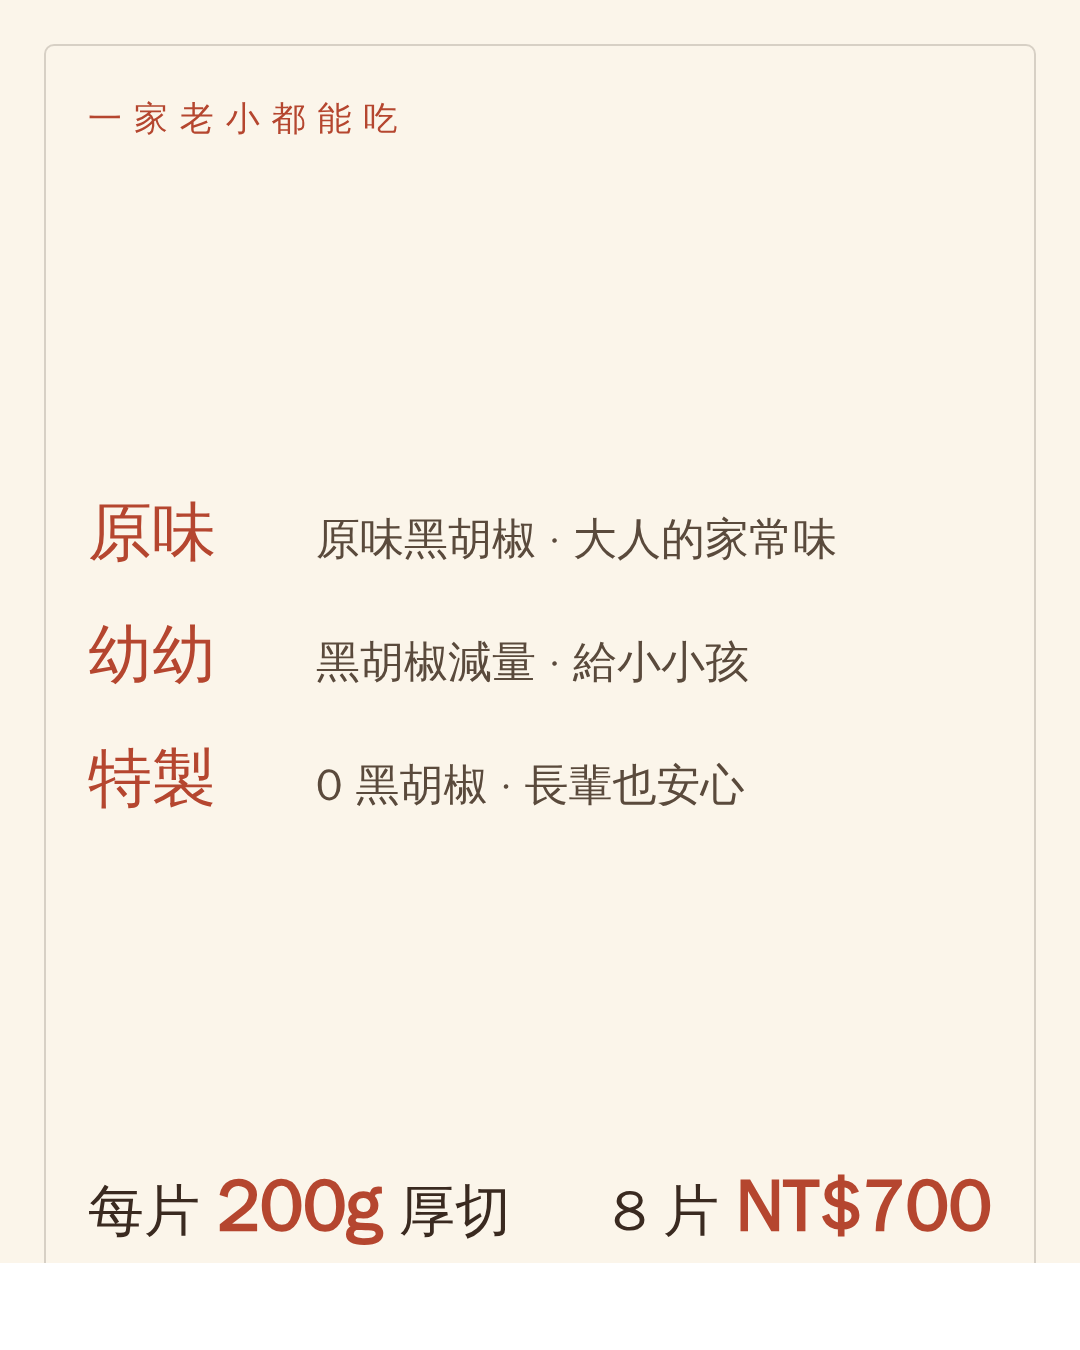
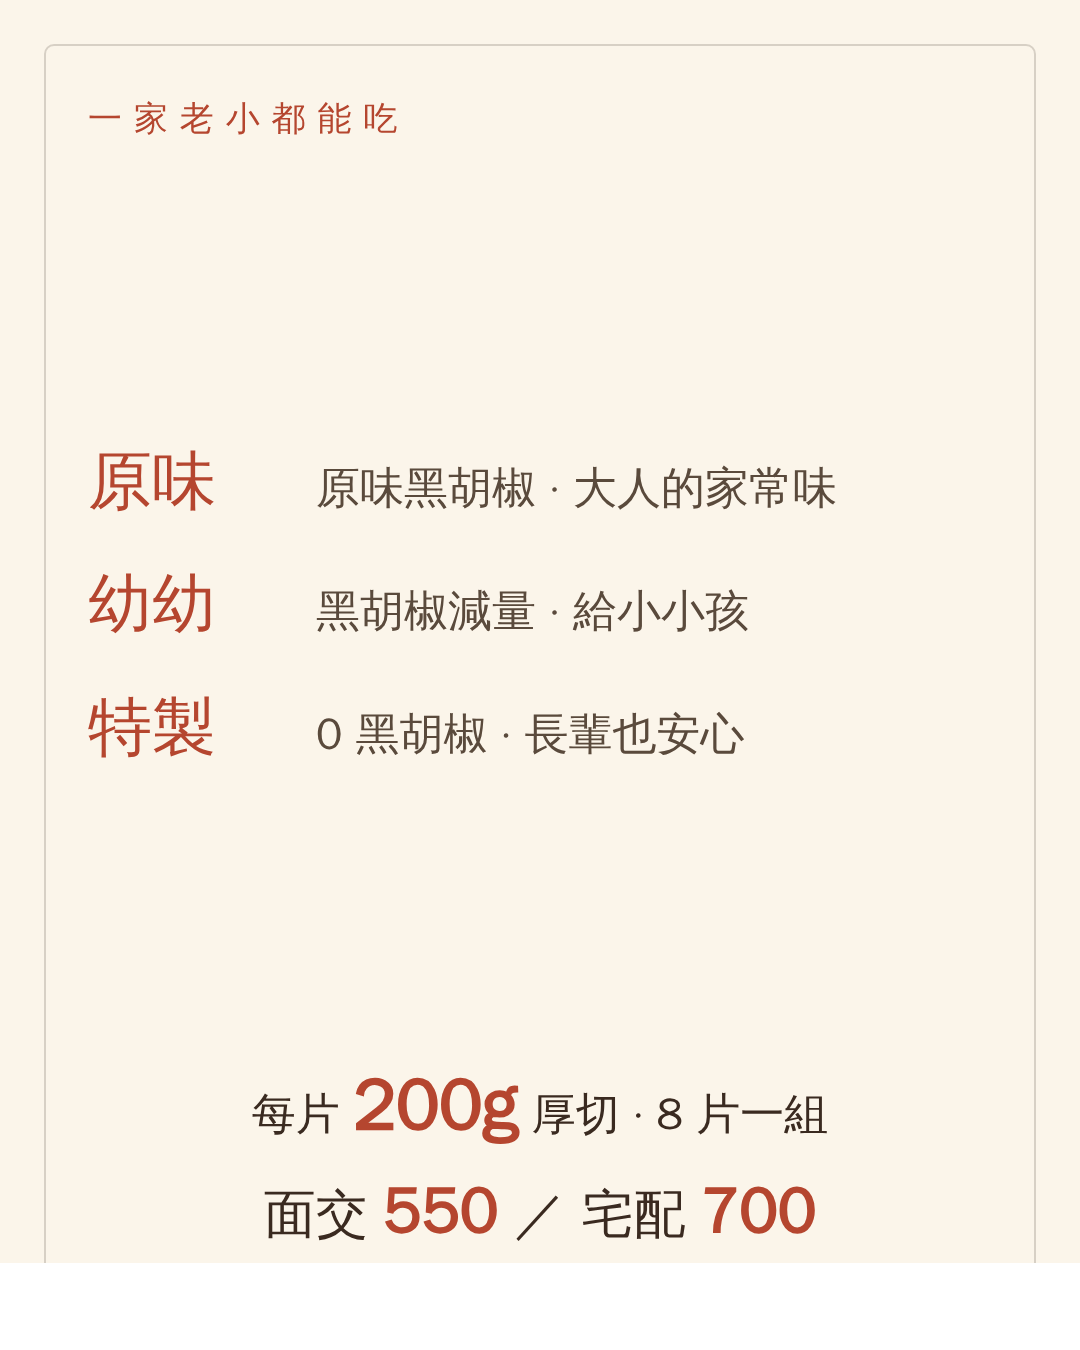
改雙價：天母面交 NT$550 / 冷凍宅配 NT$700（含運費）
- 落地頁、product-info、團購文、圖卡 card4 同步

Claude-Session: https://claude.ai/code/session_015bY9rvj7fDQzXH49adzH3s

diff --git a/docs/index.html b/docs/index.html
@@ -1142,16 +1142,21 @@ html,body,h1,h2,h3,h4,h5,h6,p,div,span,a,strong,em,b,li,button,input,label,.htag
 .buy-card li{color:var(--ink-mid);font-size:14px;line-height:1.95;}
 .buy-card li b{color:var(--amber);}
 .buy-note{max-width:440px;margin:16px auto 0;text-align:center;font-size:12px;color:var(--ink-pale);letter-spacing:.5px;}
-.buy-price{text-align:center;margin:-14px 0 30px;color:var(--ink-mid);font-size:16px;}
-.buy-price b{color:var(--amber);font-size:32px;font-weight:700;vertical-align:-3px;margin:0 4px;}
-.buy-price span{display:block;font-size:12.5px;color:var(--ink-pale);margin-top:5px;letter-spacing:.5px;}
+.buy-price{display:flex;justify-content:center;gap:14px;margin:-14px 0 10px;flex-wrap:wrap;}
+.buy-price .pp{background:var(--paper-w);border:1px solid rgba(179,64,42,.18);border-radius:14px;padding:14px 22px;text-align:center;min-width:148px;}
+.buy-price .pp span{display:block;font-size:13px;color:var(--seal);font-weight:700;letter-spacing:1px;margin-bottom:4px;}
+.buy-price .pp b{font-size:30px;color:var(--amber);font-weight:700;}
+.buy-price .pp em{display:block;font-size:11px;color:var(--ink-pale);font-style:normal;margin-top:3px;}
+.buy-price-note{text-align:center;font-size:12.5px;color:var(--ink-soft);margin:0 0 28px;letter-spacing:.5px;}
 </style>
 <section id="buy" class="buy-section r">
   <div class="buy-eyebrow">購買資訊</div>
   <h2 class="buy-title">想帶回家，這樣買</h2>
-  <div class="buy-price">三款同價 · 8 片一組 <b>NT$700</b>
-    <span>已含 7-11／全家 冷凍店到店運費</span>
+  <div class="buy-price">
+    <div class="pp"><span>天母面交</span><b>NT$550</b></div>
+    <div class="pp"><span>冷凍宅配</span><b>NT$700</b><em>含超商店到店運費</em></div>
   </div>
+  <div class="buy-price-note">三款同價・每片 200g 厚切・8 片一組</div>
 
   <div class="buy-steps">
     <div class="buy-step"><span class="buy-num">1</span><div class="st"><b>加入 LINE 官方帳號</b><br>點下方按鈕，加入就能私訊</div></div>
@@ -1164,8 +1169,8 @@ html,body,h1,h2,h3,h4,h5,h6,p,div,span,a,strong,em,b,li,button,input,label,.htag
     <div class="buy-card">
       <div class="buy-card-h">🚚 配送方式</div>
       <ul>
-        <li>天母・石牌區：可約時間<b>面交</b>（不預收款、面交再付款）</li>
-        <li>全台：<b>低溫 -18℃ 冷凍宅配</b>（7-11／全家冷凍店到店），<b>運費已含在售價內</b></li>
+        <li>天母・石牌區：可約時間<b>面交</b>，<b>8 片 NT$550</b>（不預收款、面交再付款）</li>
+        <li>全台：<b>低溫 -18℃ 冷凍宅配</b>（7-11／全家冷凍店到店），<b>8 片 NT$700</b>（運費已含）</li>
       </ul>
     </div>
     <div class="buy-card">
@@ -1191,7 +1196,7 @@ html,body,h1,h2,h3,h4,h5,h6,p,div,span,a,strong,em,b,li,button,input,label,.htag
     </div>
   </div>
 
-  <div class="buy-note">每片 200g 厚切・8 片一組 NT$700・接單現做，急件請先私訊詢問</div>
+  <div class="buy-note">接單現做，急件請先私訊詢問</div>
 </section>
 
 <style>

diff --git a/marketing/圖卡/card4.html b/marketing/圖卡/card4.html
@@ -54,8 +54,9 @@ h1 .u{ border-bottom:10px solid var(--green); padding-bottom:6px; }
   <div class="rowline"><span class="name">特製</span><span class="desc">0 黑胡椒 · 長輩也安心</span></div>
 </div>
 <div class="spacer"></div>
-<div class="foot">
-  <div class="price">每片 <b>200g</b> 厚切</div>
-  <div class="price">8 片 <b>NT$700</b></div>
+<div class="foot" style="flex-direction:column;align-items:center;text-align:center;gap:14px">
+  <div class="price" style="font-size:44px">每片 <b>200g</b> 厚切 · 8 片一組</div>
+  <div class="price" style="font-size:52px">面交 <b style="font-size:64px">550</b> ／ 宅配 <b style="font-size:64px">700</b></div>
+</div>
 </div>
 </div></body></html>

diff --git a/_brand/product-info.md b/_brand/product-info.md
@@ -21,7 +21,7 @@
 - **產品名稱**：原味排骨（黑胡椒味）
 - **產品形式**：冷凍生排骨、宅配到府
 - **規格**：每片 200g，厚切
-- **定價**：8 片一組 NT$700
+- **定價**：8 片一組｜天母面交 NT$550・冷凍宅配 NT$700（含超商店到店運費）
 - **核心解決什麼問題**：想給家人吃一口有家的味道、又要吃得安心；已調味免自己醃，退冰氣炸即可。
 - **獨特賣點（USP）**：沒有嫩肉精／防腐劑／化學添加；台灣溫體黑豬當日屠宰當日手工現做；厚切有份量。
 - **販售平台**：LINE 私訊 / 團購接單
@@ -31,7 +31,7 @@
 - **產品名稱**：幼幼排骨（少黑胡椒）
 - **產品形式**：冷凍生排骨、宅配到府
 - **規格**：每片 200g，厚切
-- **定價**：8 片一組 NT$700
+- **定價**：8 片一組｜天母面交 NT$550・冷凍宅配 NT$700（含超商店到店運費）
 - **核心解決什麼問題**：家裡有小小孩，想給孩子吃得清淡又安心的肉品。
 - **獨特賣點**：黑胡椒減量、口味溫和；同樣無添加、溫體黑豬現做。
 - **販售平台**：LINE 私訊 / 團購接單
@@ -41,7 +41,7 @@
 - **產品名稱**：特製排骨（0 黑胡椒）
 - **產品形式**：冷凍生排骨、宅配到府
 - **規格**：每片 200g，厚切
-- **定價**：8 片一組 NT$700
+- **定價**：8 片一組｜天母面交 NT$550・冷凍宅配 NT$700（含超商店到店運費）
 - **核心解決什麼問題**：長輩或需要清淡飲食的人，吃食物最原本的味道。
 - **獨特賣點**：完全不加黑胡椒、口味最清淡；適合長輩、養生、清淡飲食族群。
 - **販售平台**：LINE 私訊 / 團購接單
@@ -53,9 +53,9 @@
 
 | 品項 | 黑胡椒 | 適合對象 | 規格 | 價格 |
 |------|--------|----------|------|------|
-| 原味排骨 | 有（原味黑胡椒） | 一般大人、喜歡有味道的 | 200g/片、厚切 | 8 片 NT$700 |
-| 幼幼排骨 | 少 | 家中幼兒、口味清淡的孩子 | 200g/片、厚切 | 8 片 NT$700 |
-| 特製排骨 | 無（0 黑胡椒） | 長輩、養生、清淡飲食 | 200g/片、厚切 | 8 片 NT$700 |
+| 原味排骨 | 有（原味黑胡椒） | 一般大人、喜歡有味道的 | 200g/片、厚切 | 面交550/宅配700 |
+| 幼幼排骨 | 少 | 家中幼兒、口味清淡的孩子 | 200g/片、厚切 | 面交550/宅配700 |
+| 特製排骨 | 無（0 黑胡椒） | 長輩、養生、清淡飲食 | 200g/片、厚切 | 面交550/宅配700 |
 
 ---
 
@@ -80,7 +80,7 @@
 | 階梯 | 產品名稱 | 定價 | 目的 |
 |------|---------|------|------|
 | L0 | 首購體驗組 / 團購揪團價 | （待定） | 引流、讓新客先試味道 |
-| L1 | 8 片排骨組（原味／幼幼／特製） | NT$700 | 變現主力 |
+| L1 | 8 片排骨組（原味／幼幼／特製） | 面交550/宅配700 | 變現主力 |
 | L2 | 家庭常備箱（多組合購） | （待定） | 提高客單、培養回購 |
 | L3 | 訂閱宅配（每月固定配送） | （待定） | 鎖定回購、終身價值 |
 

diff --git a/marketing/團購文-媽媽群組.md b/marketing/團購文-媽媽群組.md
@@ -28,7 +28,7 @@
 ・**幼幼**（黑胡椒減量）→ 給家裡小小孩
 ・**特製**（0 黑胡椒）→ 長輩也吃得安心
 
-📦 每片 **200g 厚切**｜**8 片一組 NT$700**（已含 7-11／全家冷凍店到店運費）
+📦 每片 **200g 厚切**｜8 片一組：**天母面交 NT$550・冷凍宅配 NT$700**（含超商店到店運費）
 
 —
 **想跟團的媽媽，這樣下單 👇**
